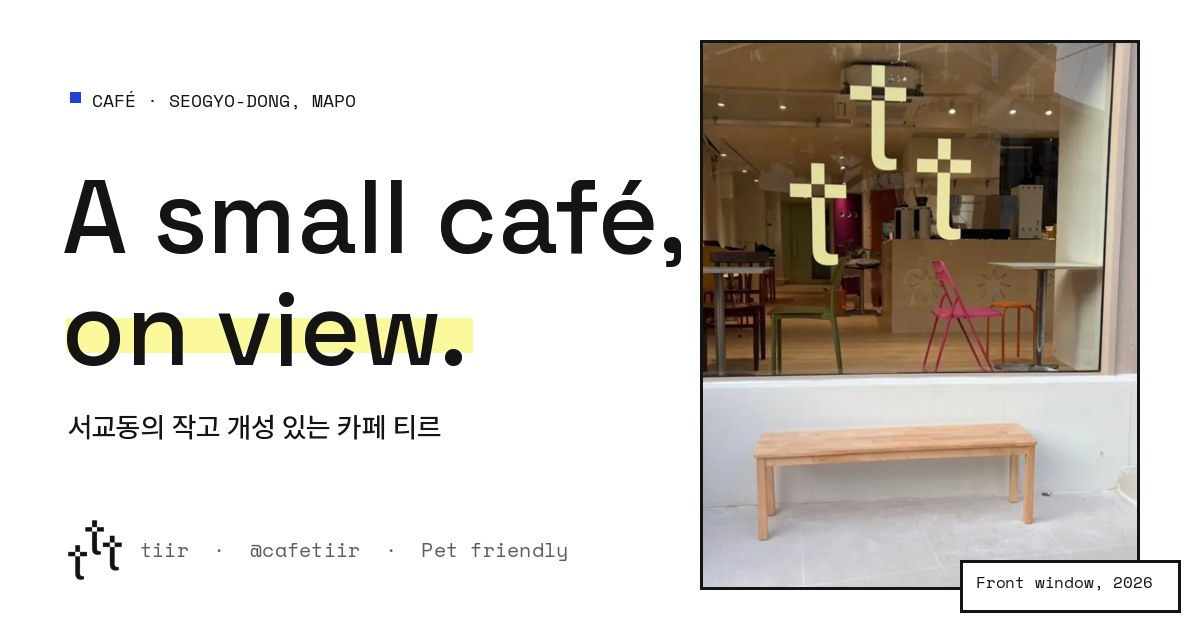
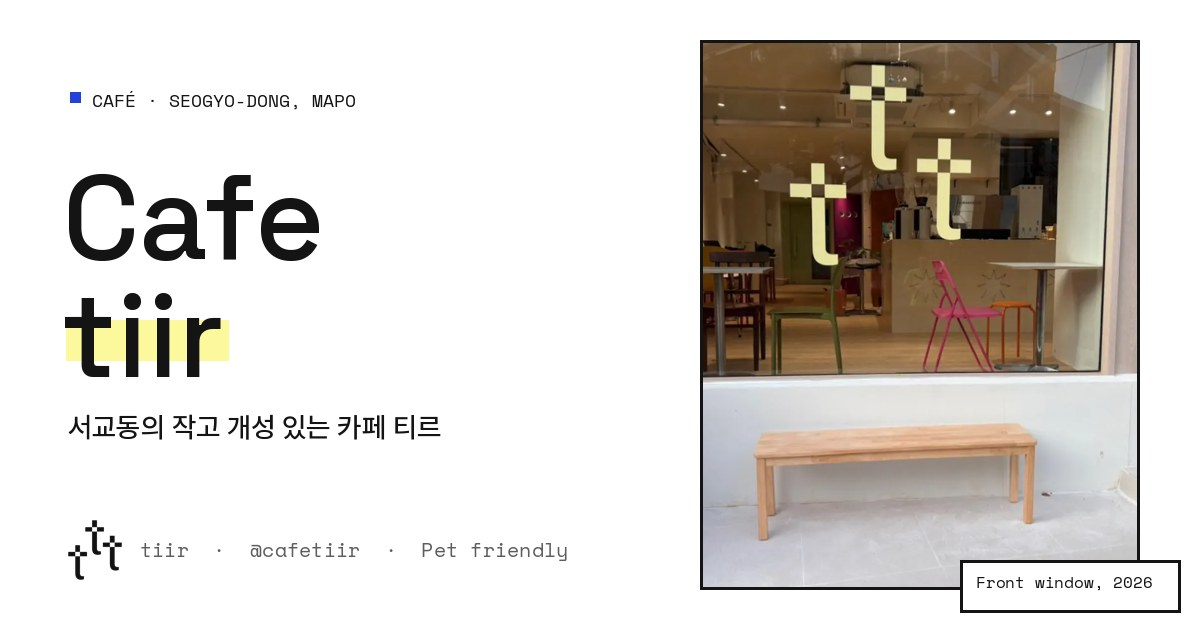
Add files via upload

Changed region(s): [[0.0308, 0.4524, 0.4008, 0.6032], [0.0308, 0.2714, 0.3392, 0.4222], [0.37, 0.2714, 0.5858, 0.4222]]

diff --git a/index.html b/index.html
@@ -3,14 +3,14 @@
 <head>
 <meta charset="utf-8" />
 <meta name="viewport" content="width=device-width,initial-scale=1" />
-<title>tiir 티르 | A small café, on view · 서교동 카페</title>
-<meta name="description" content="A small café, on view. 서교동에 자리한 작고 개성 있는 카페 티르. 예쁜 공간에서 커피와 디저트를 편하게. 반려견 동반 가능." />
+<title>Cafe tiir 티르 | 서교동 카페</title>
+<meta name="description" content="Cafe tiir. 서교동에 자리한 작고 개성 있는 카페 티르. 예쁜 공간에서 커피와 디저트를 편하게. 반려견 동반 가능." />
 <link rel="canonical" href="https://tir-sample.lgt3232.workers.dev/" />
 <meta name="theme-color" content="#FFFFFF" />
 <meta property="og:type" content="website" />
 <meta property="og:locale" content="ko_KR" />
 <meta property="og:site_name" content="tiir" />
-<meta property="og:title" content="tiir 티르 | A small café, on view" />
+<meta property="og:title" content="Cafe tiir 티르 | 서교동 카페" />
 <meta property="og:description" content="서교동의 작고 개성 있는 카페. 커피 · 디저트 · 반려견 동반." />
 <meta property="og:url" content="https://tir-sample.lgt3232.workers.dev/" />
 <meta property="og:image" content="https://tir-sample.lgt3232.workers.dev/og-tiir.jpg" />
@@ -126,11 +126,11 @@ h2{ font-size:clamp(2.4rem,6.4vw,5rem); line-height:.98; }
 .works{ display:grid; grid-template-columns:repeat(2,1fr); gap:28px 14px; }
 .work{ margin:0; }
 .work .pic{ overflow:hidden; background:var(--wall); }
-.work img{ width:100%; aspect-ratio:4/5; object-fit:cover; transition:transform 1.2s ease; }
+.work img{ width:100%; aspect-ratio:4/5; object-fit:cover; }
 .work figcaption{ margin-top:10px; padding-top:8px; border-top:1.5px solid var(--ink); font-family:var(--mono); font-size:.7rem; line-height:1.5; color:var(--soft); }
-.work figcaption b{ display:block; font-family:var(--grot); font-weight:600; font-size:.98rem; letter-spacing:-.02em; color:var(--ink); }
+.work figcaption b{ display:block; width:fit-content; padding:0 .1em; margin-left:-.1em; transition:background .25s ease; font-family:var(--grot); font-weight:600; font-size:.98rem; letter-spacing:-.02em; color:var(--ink); }
 .work figcaption .no{ color:var(--cobalt); }
-@media (hover:hover){ .work:hover img{ transform:scale(1.03); } .work:hover figcaption b{ background:var(--yellow); display:inline; } }
+@media (hover:hover){ .work:hover figcaption b{ background:var(--yellow); } }   /* v0.1.1 사진 고정 · 캡션 제목 배경만 바뀜(레이아웃 변화 없음) */
 @media (min-width:900px){ .works{ grid-template-columns:repeat(4,1fr); gap:44px 22px; } .works .work:nth-child(4n+2){ margin-top:60px; } .works .work:nth-child(4n+4){ margin-top:30px; } }
 
 .menu-cats{ display:flex; flex-wrap:wrap; gap:10px; margin-top:clamp(40px,5vw,60px); padding-top:24px; border-top:1.5px solid var(--ink); align-items:center; }
@@ -211,7 +211,7 @@ h2{ font-size:clamp(2.4rem,6.4vw,5rem); line-height:.98; }
     <div class="wrap">
       <div class="reveal">
         <p class="tag">Café · Seogyo-dong, Mapo<span class="ko">서교동 카페</span></p>
-        <h1 id="hero-h">A small café,<br /><span class="hl">on view.</span></h1>
+        <h1 id="hero-h">Cafe<br /><span class="hl">tiir</span></h1>
         <p class="ko-t">서교동에 자리한 작고 개성 있는 카페</p>
         <p class="lead">예쁜 공간에서 맛있는 커피와 디저트를 편하게 즐겨보세요. 반려견과 함께 와도 좋아요.</p>
         <div class="cta">
@@ -250,7 +250,6 @@ h2{ font-size:clamp(2.4rem,6.4vw,5rem); line-height:.98; }
           <p class="tag">The Collection<span class="ko">커피 · 디저트</span></p>
           <h2 id="col-h" style="margin-top:20px">Works on<br /><span class="hl">the table.</span><span class="ko-t">테이블 위의 작은 작품들</span></h2>
         </div>
-        <p class="lead">모든 잔은 작품처럼. 사진 아래 캡션은 작품 라벨을 흉내 낸 거예요.</p>
       </div>
       <div class="works">
         <figure class="work reveal"><div class="pic"><img loading="lazy" src="tr-americano.webp" alt="파란 코스터 위의 아이스 블랙 커피" width="900" height="1126" /></div><figcaption><span class="no">No. 01</span><b>Iced Black</b>Glass, ice, blue coaster</figcaption></figure>
